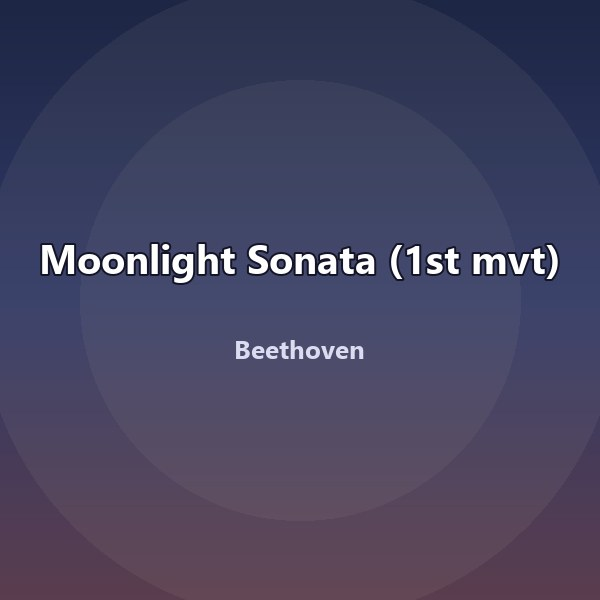
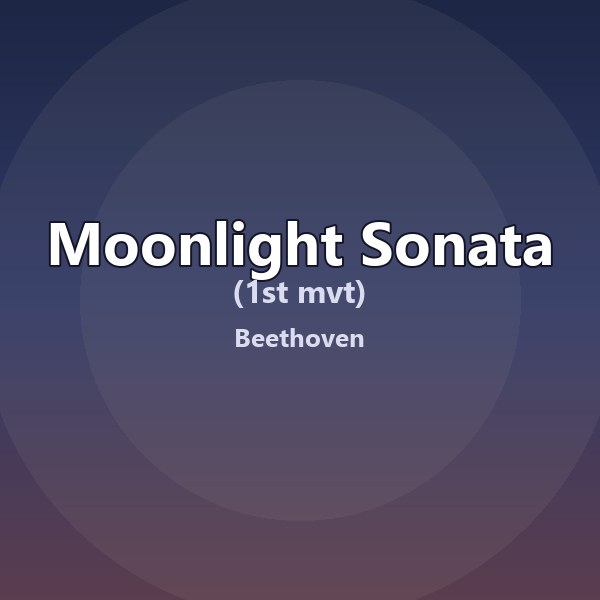
fix(demo): cover painter now splits long titles at parenthetical
"Twinkle, Twinkle (Mozart K.265 Variations)" was rendered on a single
shrunken line at ~28pt. Now splits at " (" — main title on one line in
full size (~64pt), parenthetical below in a smaller weight (~32pt). Same
treatment regenerates the Moonlight cover ("Moonlight Sonata (1st mvt)").
Bumped MANIFEST_ASSET_VERSION to 3 to evict the cached old covers from
Cloudflare + browsers.

Changed region(s): [[0.06, 0.36, 0.93, 0.51], [0.39, 0.54, 0.63, 0.6]]

diff --git a/scripts/build_demo.py b/scripts/build_demo.py
@@ -485,19 +485,52 @@ def _generate_category_cover(track: dict, cover_path: Path) -> None:
     stroke_color = (255, 255, 255) if cat == "easy" else (20, 20, 40)
     sub_color = (90, 90, 110) if cat == "easy" else (220, 220, 240)
 
-    # Title — auto-shrink to fit 540px wide, max 2 lines.
+    # Title rendering — split at " (" so titles like
+    # "Twinkle, Twinkle (Mozart K.265 Variations)" don't get squashed onto a
+    # single shrunken line. Main part stays bold + large; parenthetical sits
+    # below in a smaller weight, same color but slightly dimmer.
+    title_main = title
+    title_sub = ""
+    if " (" in title and title.rstrip().endswith(")"):
+        idx = title.index(" (")
+        title_main = title[:idx]
+        title_sub = title[idx + 1:]   # keep the leading "(" so the line reads naturally
+
+    # Auto-shrink the main title to fit 540px wide.
     title_size = 64
     while title_size > 28:
         title_font = find_font(title_size)
-        tb = draw.textbbox((0, 0), title, font=title_font)
+        tb = draw.textbbox((0, 0), title_main, font=title_font)
         if tb[2] - tb[0] <= 540:
             break
         title_size -= 4
     title_font = find_font(title_size)
-    tb = draw.textbbox((0, 0), title, font=title_font)
+
+    # Vertical layout: center the title block (main + optional sub) around y=270.
+    # Title at y=230 by default; if there's a sub, raise the title slightly so the
+    # whole block stays balanced and the artist line below doesn't overlap.
+    title_y = 230 if not title_sub else 200
+    sub_y = title_y + title_size + 8  # gap below the main line
+    artist_y = (sub_y + 50) if title_sub else 330
+
+    tb = draw.textbbox((0, 0), title_main, font=title_font)
     tw = tb[2] - tb[0]
-    draw.text(((600 - tw) // 2, 230), title, font=title_font, fill=text_color,
+    draw.text(((600 - tw) // 2, title_y), title_main, font=title_font, fill=text_color,
               stroke_width=2, stroke_fill=stroke_color)
+
+    if title_sub:
+        # Sub-title (parenthetical) — smaller, no stroke, slightly dimmer.
+        sub_size = 32
+        while sub_size > 18:
+            sf = find_font(sub_size)
+            sb = draw.textbbox((0, 0), title_sub, font=sf)
+            if sb[2] - sb[0] <= 540:
+                break
+            sub_size -= 2
+        sub_font = find_font(sub_size)
+        sb = draw.textbbox((0, 0), title_sub, font=sub_font)
+        sw = sb[2] - sb[0]
+        draw.text(((600 - sw) // 2, sub_y), title_sub, font=sub_font, fill=sub_color)
 
     artist_font = find_font(26)
     ab = draw.textbbox((0, 0), artist, font=artist_font)
@@ -508,7 +541,7 @@ def _generate_category_cover(track: dict, cover_path: Path) -> None:
             ab = draw.textbbox((0, 0), artist + "…", font=artist_font)
             aw = ab[2] - ab[0]
         artist = artist + "…"
-    draw.text(((600 - aw) // 2, 330), artist, font=artist_font, fill=sub_color)
+    draw.text(((600 - aw) // 2, artist_y), artist, font=artist_font, fill=sub_color)
 
     DEMO_COVERS_DIR.mkdir(parents=True, exist_ok=True)
     img.save(cover_path, "JPEG", quality=88, optimize=True)
@@ -666,7 +699,7 @@ def extract_melody(track: dict, demo_hash_str: str) -> Path | None:
 # Bump when demo audio / cover assets change so browsers + Cloudflare evict
 # their cached copies. Appended as ?v=N to audio_url / cover_url in the
 # manifest; the static-mount serves the file regardless of query string.
-MANIFEST_ASSET_VERSION = 2
+MANIFEST_ASSET_VERSION = 3
 
 
 def build_manifest():
